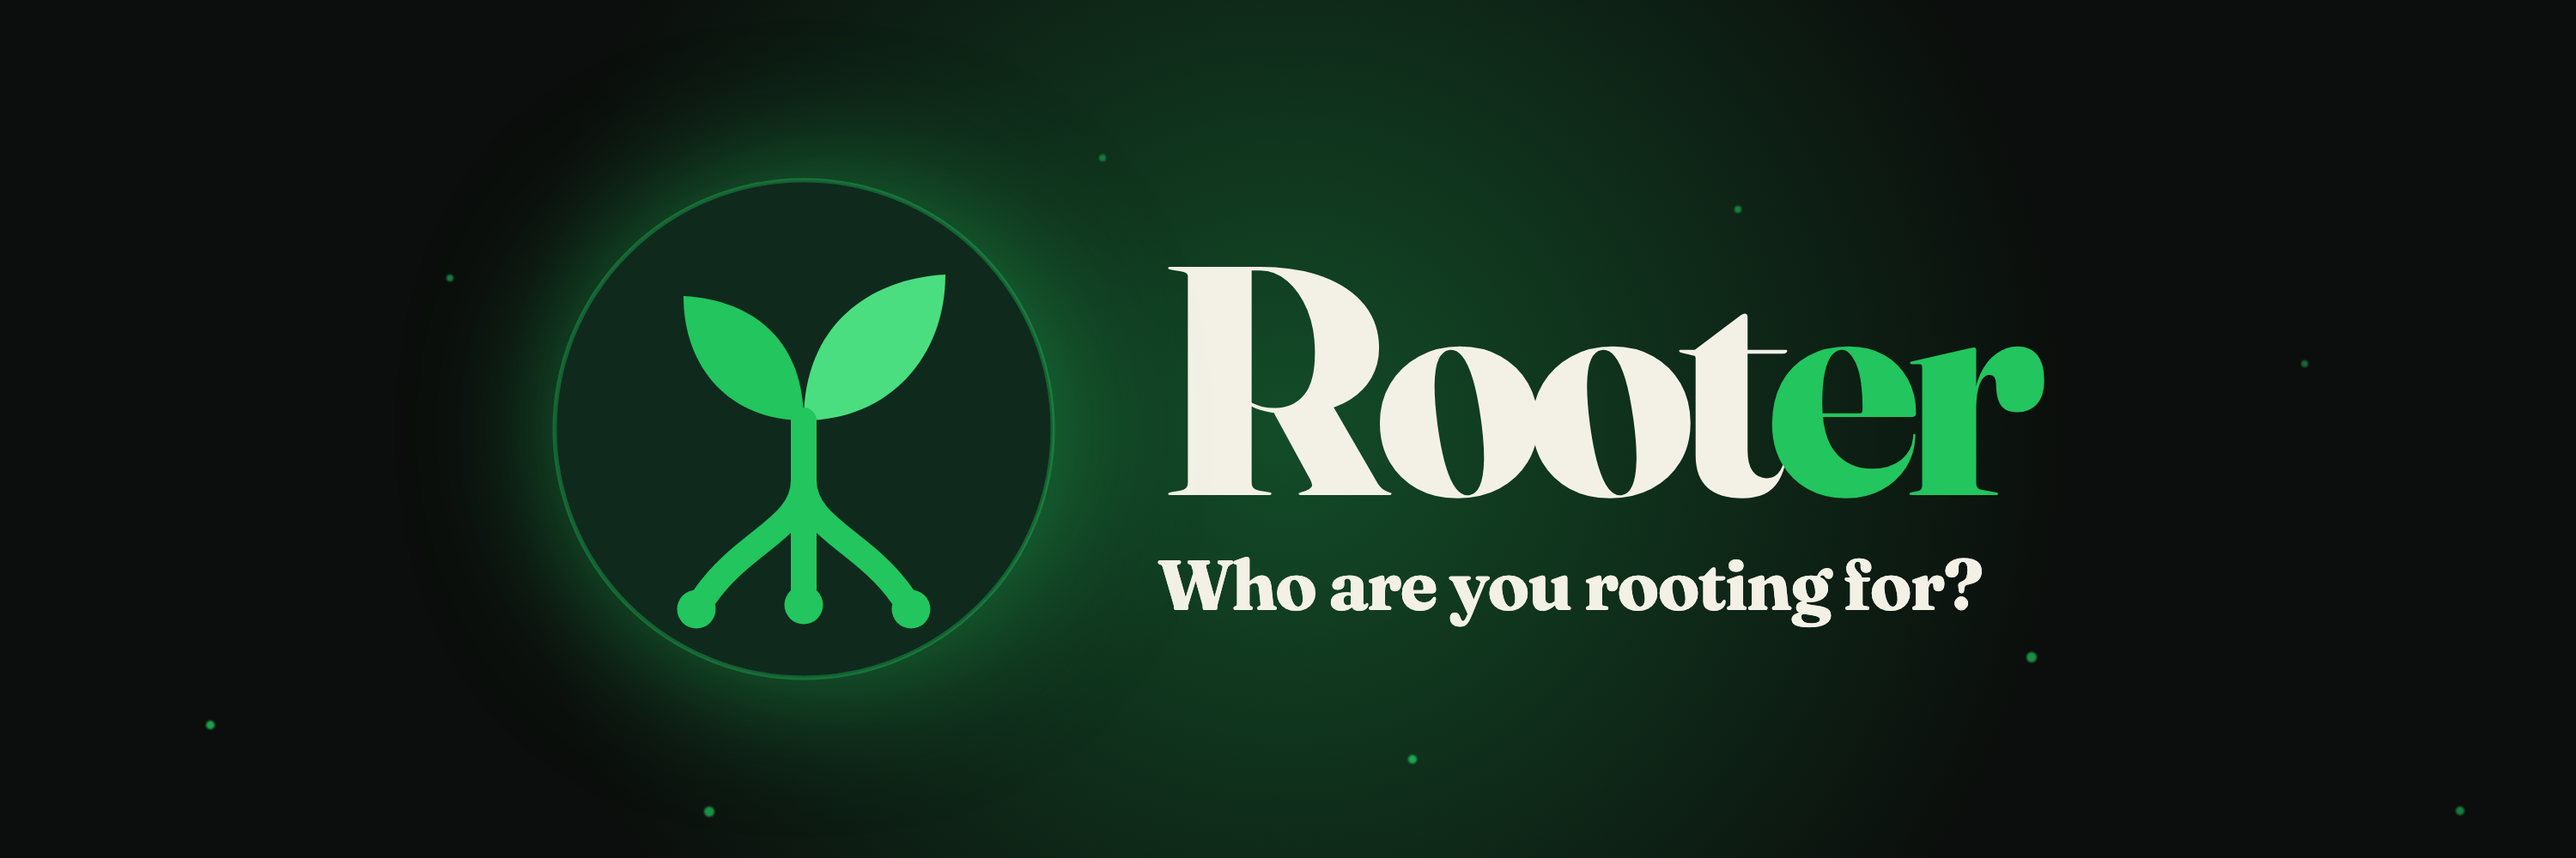
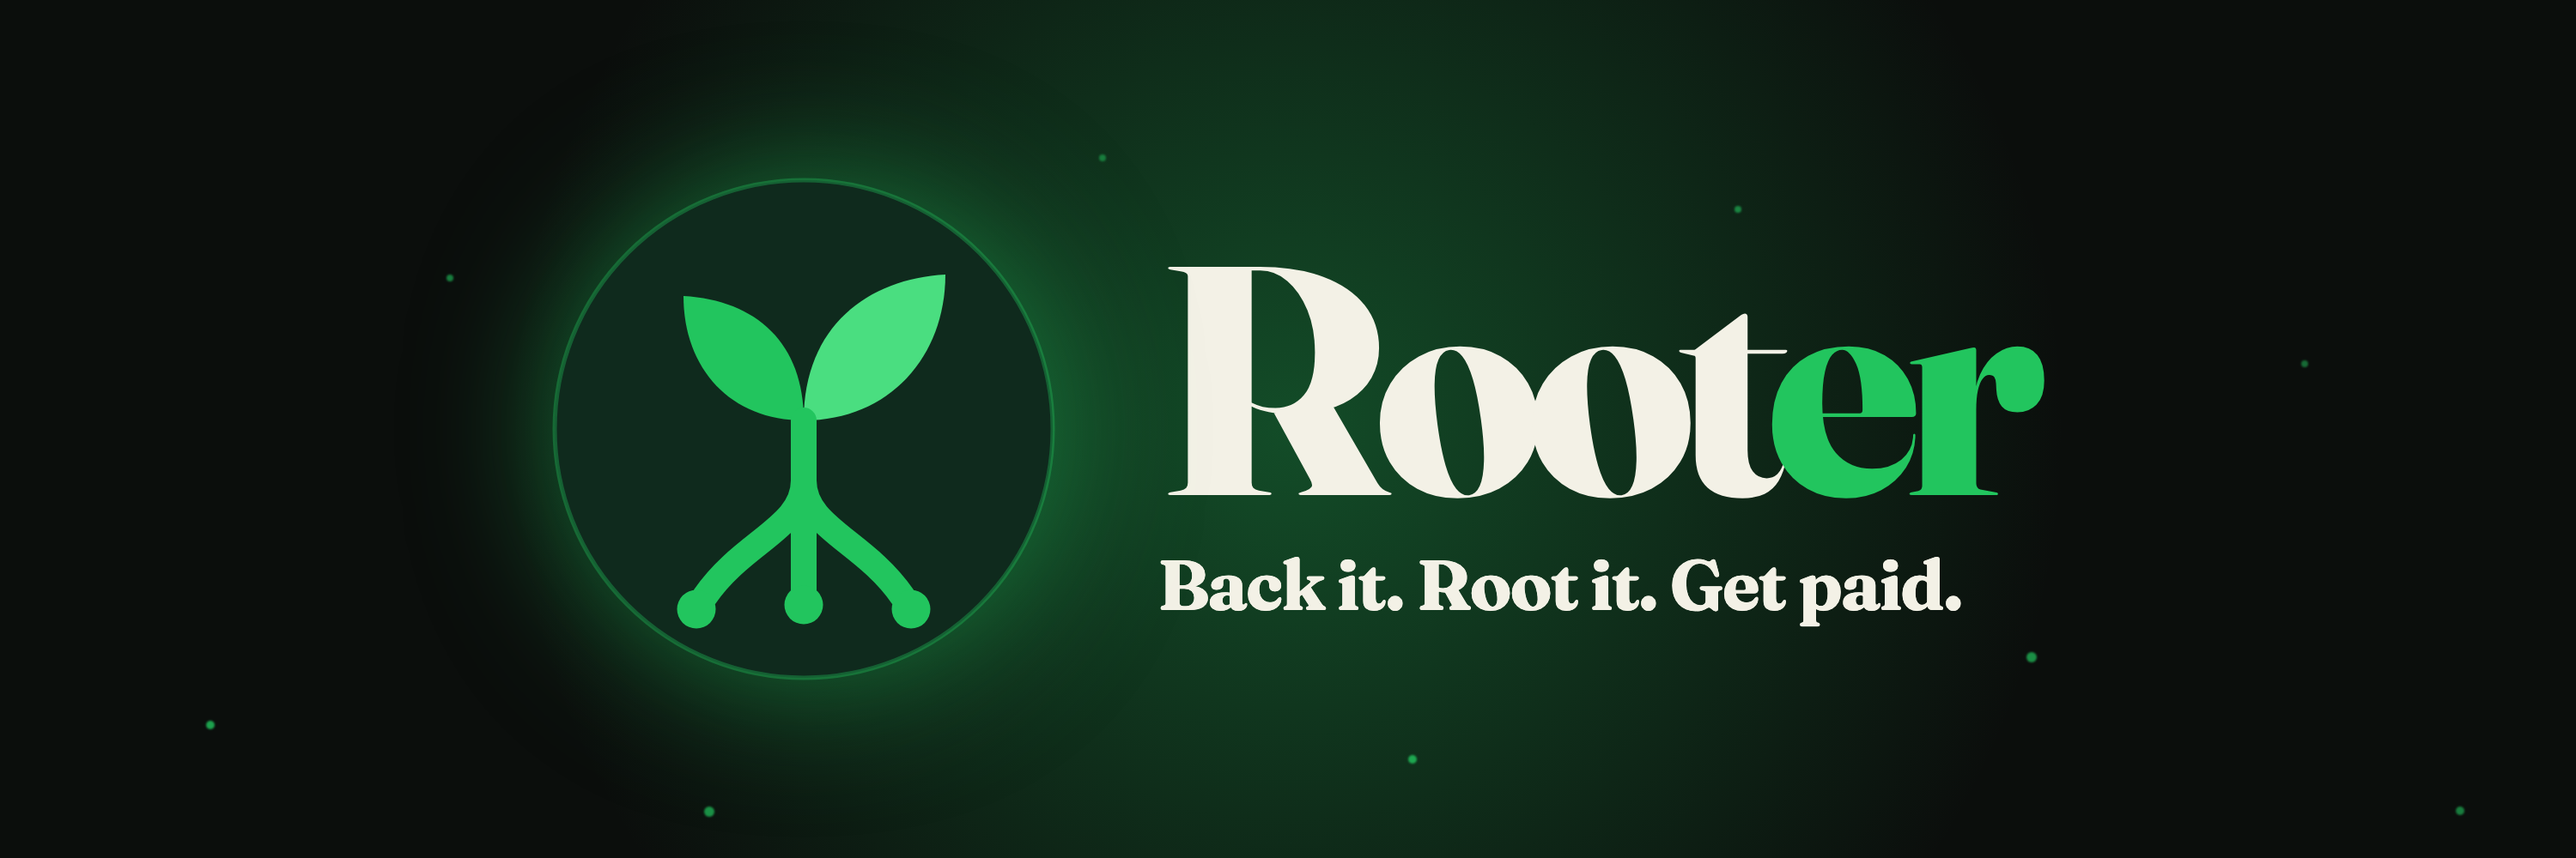
Slogan: Back it. Root it. Get paid.

Changed region(s): [[0.434, 0.651, 0.775, 0.744]]

diff --git a/index.html b/index.html
@@ -4,7 +4,7 @@
 <meta charset="utf-8">
 <meta name="viewport" content="width=device-width, initial-scale=1, viewport-fit=cover">
 <meta name="theme-color" content="#0B0E0C">
-<title>Rooter — Who are you rooting for?</title>
+<title>Rooter — Back it. Root it. Get paid.</title>
 <meta name="description" content="Launch a coin for anyone on Robinhood Chain. Built on Uniswap v4 hooks. The person earns from every trade. So do the people rooting for them. $ROOTR.">
 <meta property="og:title" content="Rooter — Back it. Root it. Get paid.">
 <meta property="og:description" content="Launch a coin for anyone. The person earns. So do the people rooting for them. On Robinhood Chain.">
@@ -366,7 +366,7 @@ footer .fine{width:100%;margin-top:32px;padding-top:24px;border-top:1px solid va
 
 <div class="cta-band">
   <div class="wrap">
-    <div><div class="eyebrow">Back it. Root it. Get paid.</div><h2 style="margin-top:10px">Who are you rooting for?</h2></div>
+    <div><div class="eyebrow">Root for anyone</div><h2 style="margin-top:10px">Back it. <span class="g">Root it.</span> Get paid.</h2></div>
     <div class="cta"><a class="btn btn-primary" href="#" data-pons-link>Get $ROOTR <svg><use href="#ext"/></svg></a><a class="btn btn-ghost" href="#" data-x-link>Follow on X <svg><use href="#ext"/></svg></a></div>
   </div>
 </div>
